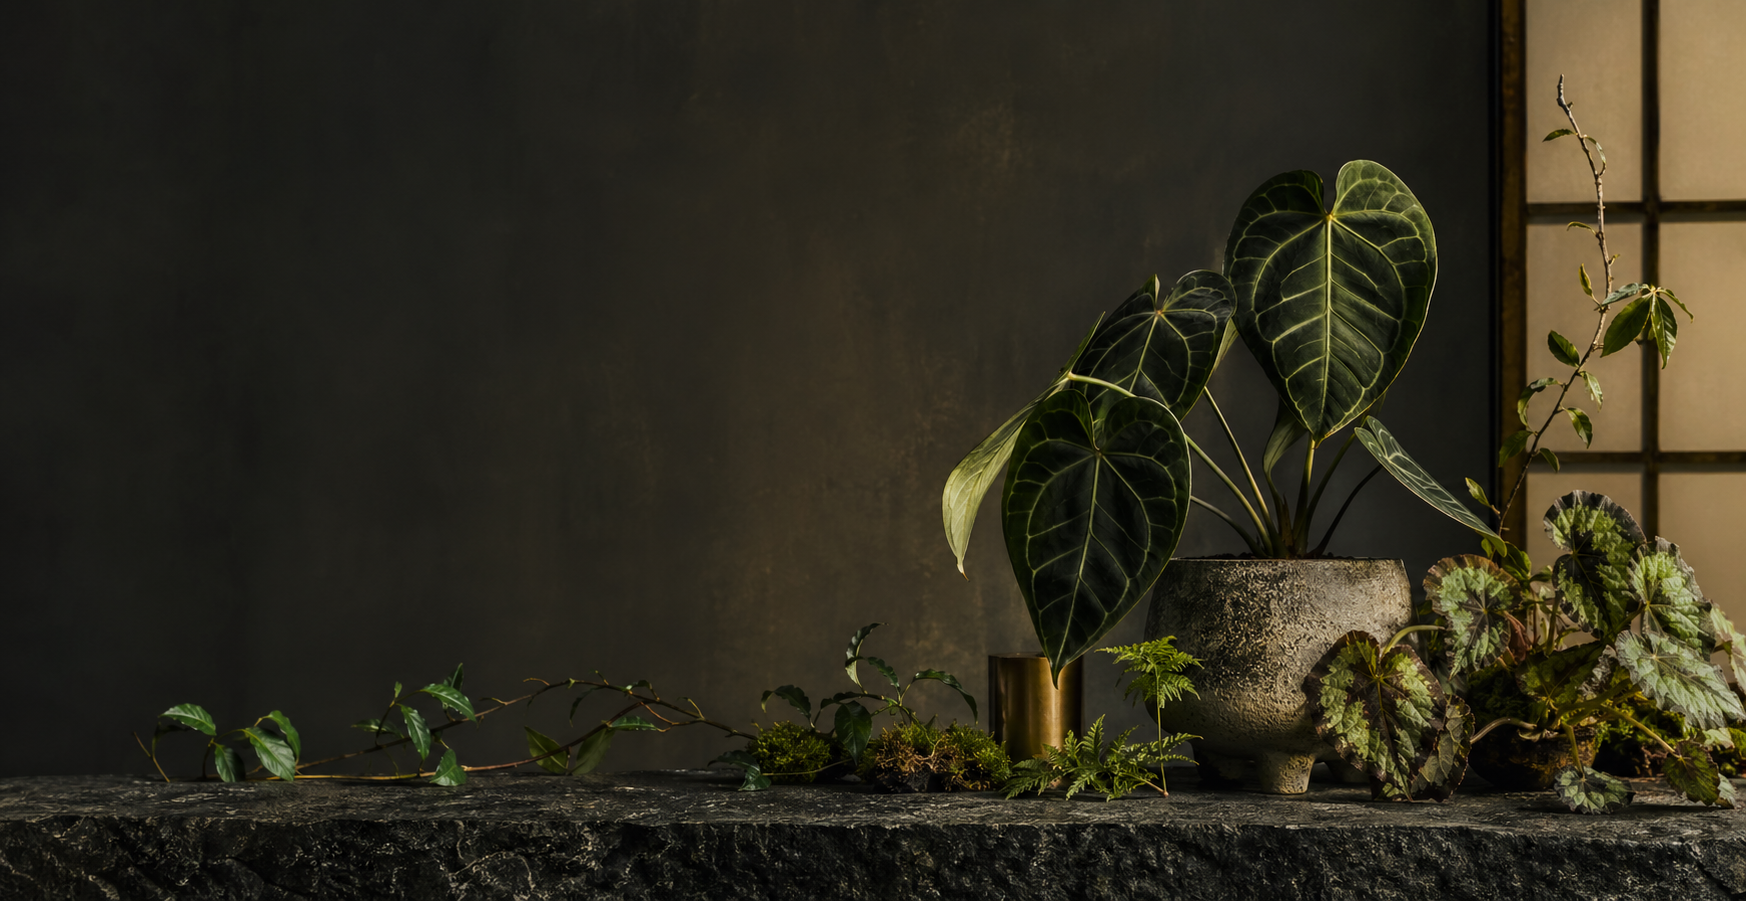
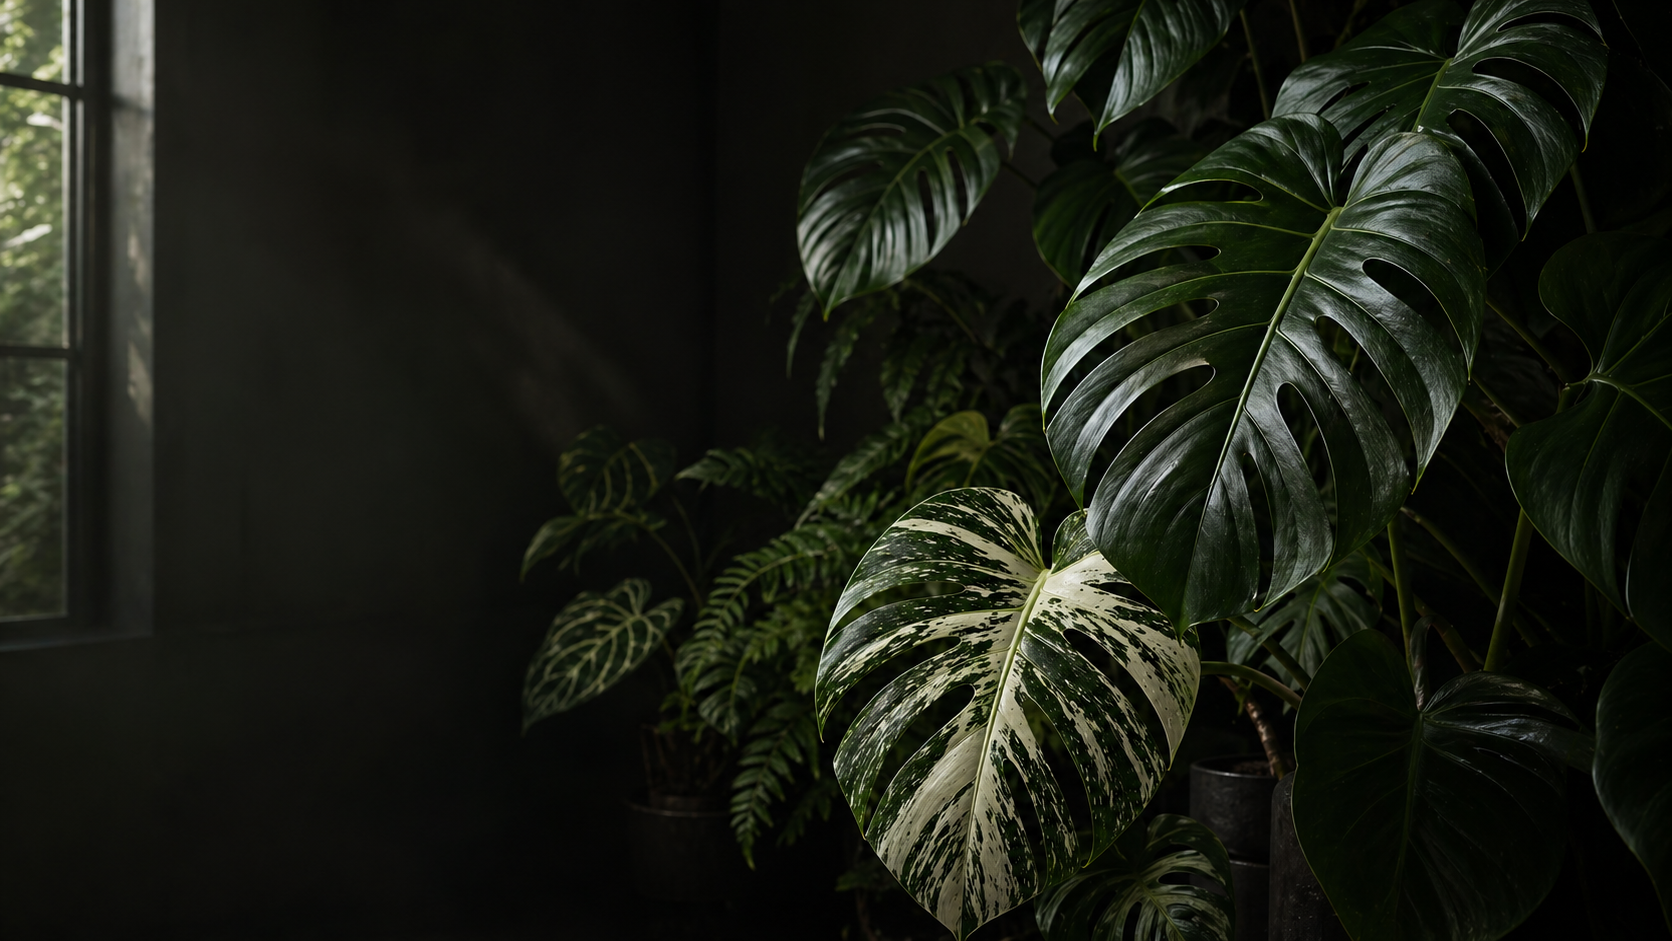
Refine history section and Monstera symbolism

diff --git a/app/page.tsx b/app/page.tsx
@@ -84,16 +84,7 @@ export default function Home() {
         <div className="absolute inset-x-0 bottom-0 h-40 bg-gradient-to-t from-[#08100c] to-transparent" />
 
         <div className="relative z-10 mx-auto flex min-h-[92vh] max-w-7xl flex-col justify-center px-5 pb-20 pt-28">
-          <div className="relative mb-8 h-24 w-24 overflow-hidden rounded-full bg-[#d9ffd8] shadow-[0_20px_60px_rgba(0,0,0,0.34)] ring-1 ring-[#fffaf0]/25 md:h-32 md:w-32">
-            <Image
-              src="/brand/zamakuri-logo.png"
-              alt="ざまくりプランツ"
-              fill
-              priority
-              className="object-cover"
-              sizes="(min-width: 768px) 128px, 96px"
-            />
-          </div>
+          <div className="mb-8 h-px w-28 bg-[#d9ffd8]/50" />
           <p className="mb-5 text-xs font-semibold tracking-[0.32em] text-[#b89558]">
             ZAMAKURI PLANTS 1 YEAR HISTORY
           </p>
@@ -201,61 +192,63 @@ export default function Home() {
         </div>
       </section>
 
-      <section id="history" className="mx-auto max-w-7xl px-5 py-20 md:py-28">
-        <div className="mb-14 grid gap-8 md:grid-cols-[1fr_420px] md:items-end">
-          <div>
-            <p className="mb-5 text-xs font-semibold tracking-[0.32em] text-[#8f6f37]">
-              CHRONOLOGY
+      <section id="history" className="relative overflow-hidden bg-[#050806] px-5 py-20 text-[#fffaf0] md:py-28">
+        <div className="absolute inset-0 bg-[radial-gradient(circle_at_76%_10%,rgba(217,255,216,0.10),transparent_30%)]" />
+        <div className="relative mx-auto max-w-7xl">
+          <div className="mb-16 grid gap-8 border-b border-[#fffaf0]/10 pb-12 md:grid-cols-[1fr_420px] md:items-end">
+            <div>
+              <p className="mb-5 text-xs font-semibold tracking-[0.32em] text-[#b89558]">
+                CHRONOLOGY / SINCE 2025
+              </p>
+              <h2 className="max-w-4xl text-[clamp(2.2rem,5vw,5rem)] font-medium leading-tight">
+                ざまくりプランツ年表
+              </h2>
+            </div>
+            <p className="text-[15px] leading-8 text-[#eee7d7]/72">
+              開業から走り続けた11か月。販売記録ではなく、植物と向き合う判断、現場で得た信頼、そして次の基準へ進むための記録です。
             </p>
-            <h2 className="text-[clamp(2.1rem,5vw,4.8rem)] font-medium leading-tight">
-              ざまくりプランツ年表
-            </h2>
           </div>
-          <p className="text-[15px] leading-8 text-[#6a645b]">
-            開業から走り続けた11か月。販売記録ではなく、
-            本気で植物と向き合ってきた時間の記録です。
-          </p>
-        </div>
 
-        <div className="border-t border-[#191a15]/12">
-          {history.map((item, index) => (
-            <article
-              key={item.title}
-              className="group grid gap-8 border-b border-[#191a15]/12 py-10 md:grid-cols-[130px_minmax(0,0.82fr)_minmax(300px,0.9fr)] md:gap-12 md:py-14"
-            >
-              <div>
-                <p className="text-sm font-bold tracking-[0.18em] text-[#8f6f37]">
-                  {String(index + 1).padStart(2, '0')}
-                </p>
-                <p className="mt-3 text-[11px] font-semibold tracking-[0.18em] text-[#191a15]/42">
-                  {item.period}
-                </p>
-              </div>
+          <div className="grid gap-6">
+            {history.map((item, index) => (
+              <article
+                key={item.title}
+                className="group grid gap-8 border border-[#fffaf0]/10 bg-[#07120d]/86 p-5 shadow-[0_28px_90px_rgba(0,0,0,0.22)] transition duration-300 hover:border-[#d9ffd8]/30 md:grid-cols-[120px_minmax(0,1fr)_420px] md:items-stretch md:p-7"
+              >
+                <div className="flex items-start justify-between gap-4 border-b border-[#fffaf0]/10 pb-5 md:block md:border-b-0 md:border-r md:pb-0 md:pr-7">
+                  <p className="text-3xl font-medium leading-none text-[#d9ffd8]/82">
+                    {String(index + 1).padStart(2, '0')}
+                  </p>
+                  <p className="mt-1 text-[11px] font-semibold tracking-[0.18em] text-[#eee7d7]/48 md:mt-5">
+                    {item.period}
+                  </p>
+                </div>
 
-              <div>
-                <h3 className="text-[clamp(1.45rem,2.8vw,2.35rem)] font-medium leading-tight">
-                  {item.title}
-                </h3>
-                <p className="mt-4 border-l border-[#8f6f37]/35 pl-4 text-[15px] leading-8 text-[#2d342d]">
-                  {item.lead}
-                </p>
-                <p className="mt-6 whitespace-pre-line text-[15px] leading-8 text-[#665f55]">
-                  {item.text}
-                </p>
-              </div>
+                <div className="flex flex-col justify-center md:py-3">
+                  <h3 className="text-[clamp(1.55rem,3vw,2.5rem)] font-medium leading-tight text-[#fffaf0]">
+                    {item.title}
+                  </h3>
+                  <p className="mt-5 border-l border-[#d9ffd8]/35 pl-4 text-[15px] leading-8 text-[#eee7d7]/86">
+                    {item.lead}
+                  </p>
+                  <p className="mt-6 whitespace-pre-line text-[15px] leading-8 text-[#d8d0bf]/72">
+                    {item.text}
+                  </p>
+                </div>
 
-              <div className="relative aspect-[4/3] overflow-hidden rounded-sm bg-[#d9d3c7]">
-                <Image
-                  src={item.image}
-                  alt={item.title}
-                  fill
-                  className="object-cover saturate-[0.86] contrast-[1.02] transition duration-700 group-hover:scale-[1.03]"
-                  sizes="(min-width: 768px) 36vw, 100vw"
-                />
-                <div className="absolute inset-0 bg-gradient-to-t from-[#050705]/35 to-transparent" />
-              </div>
-            </article>
-          ))}
+                <div className="relative min-h-[260px] overflow-hidden bg-[#102018] md:min-h-[360px]">
+                  <Image
+                    src={item.image}
+                    alt={item.title}
+                    fill
+                    className="object-cover opacity-[0.86] saturate-[0.8] contrast-[1.04] transition duration-700 group-hover:scale-[1.03]"
+                    sizes="(min-width: 768px) 34vw, 100vw"
+                  />
+                  <div className="absolute inset-0 bg-[linear-gradient(180deg,rgba(5,8,6,0.02),rgba(5,8,6,0.42))]" />
+                </div>
+              </article>
+            ))}
+          </div>
         </div>
       </section>
 
@@ -294,6 +287,7 @@ export default function Home() {
     </main>
   )
 }
+
 
 
 

diff --git a/app/not-found.tsx b/app/not-found.tsx
@@ -1,5 +1,4 @@
-import Image from 'next/image'
-import Link from 'next/link'
+import Link from 'next/link'
 import BrandHeader from '@/app/components/BrandHeader'
 
 export default function NotFound() {
@@ -7,11 +6,7 @@ export default function NotFound() {
     <main className="relative grid min-h-screen place-items-center overflow-hidden bg-[radial-gradient(circle_at_72%_18%,rgba(217,255,216,0.10),transparent_28%),linear-gradient(135deg,#050806_0%,#0d1d14_52%,#07110c_100%)] px-5 py-16 text-[#fffaf0] [font-family:'Yu_Mincho','Hiragino_Mincho_ProN','Noto_Serif_JP',serif]">
       <BrandHeader />
       <section className="relative w-full max-w-4xl border border-[#fffaf0]/12 bg-[#08140f]/84 p-7 text-center shadow-[0_30px_100px_rgba(0,0,0,0.32)] md:p-12">
-        <div className="mx-auto mb-7 grid h-28 w-28 place-items-center rounded-full bg-[#d9ffd8] p-3 shadow-[0_22px_70px_rgba(0,0,0,0.28)] ring-1 ring-[#fffaf0]/40 md:h-36 md:w-36">
-          <div className="relative h-full w-full overflow-hidden rounded-full">
-            <Image src="/brand/zamakuri-logo.png" alt="ざまくりプランツ" fill className="object-cover" sizes="144px" />
-          </div>
-        </div>
+        <div className="mx-auto mb-8 h-px w-24 bg-[#d9ffd8]/55" />
 
         <p className="mb-4 text-xs font-semibold tracking-[0.32em] text-[#b89558]">
           404 / LOST LEAF
@@ -44,9 +39,3 @@ export default function NotFound() {
     </main>
   )
 }
-
-
-
-
-
-